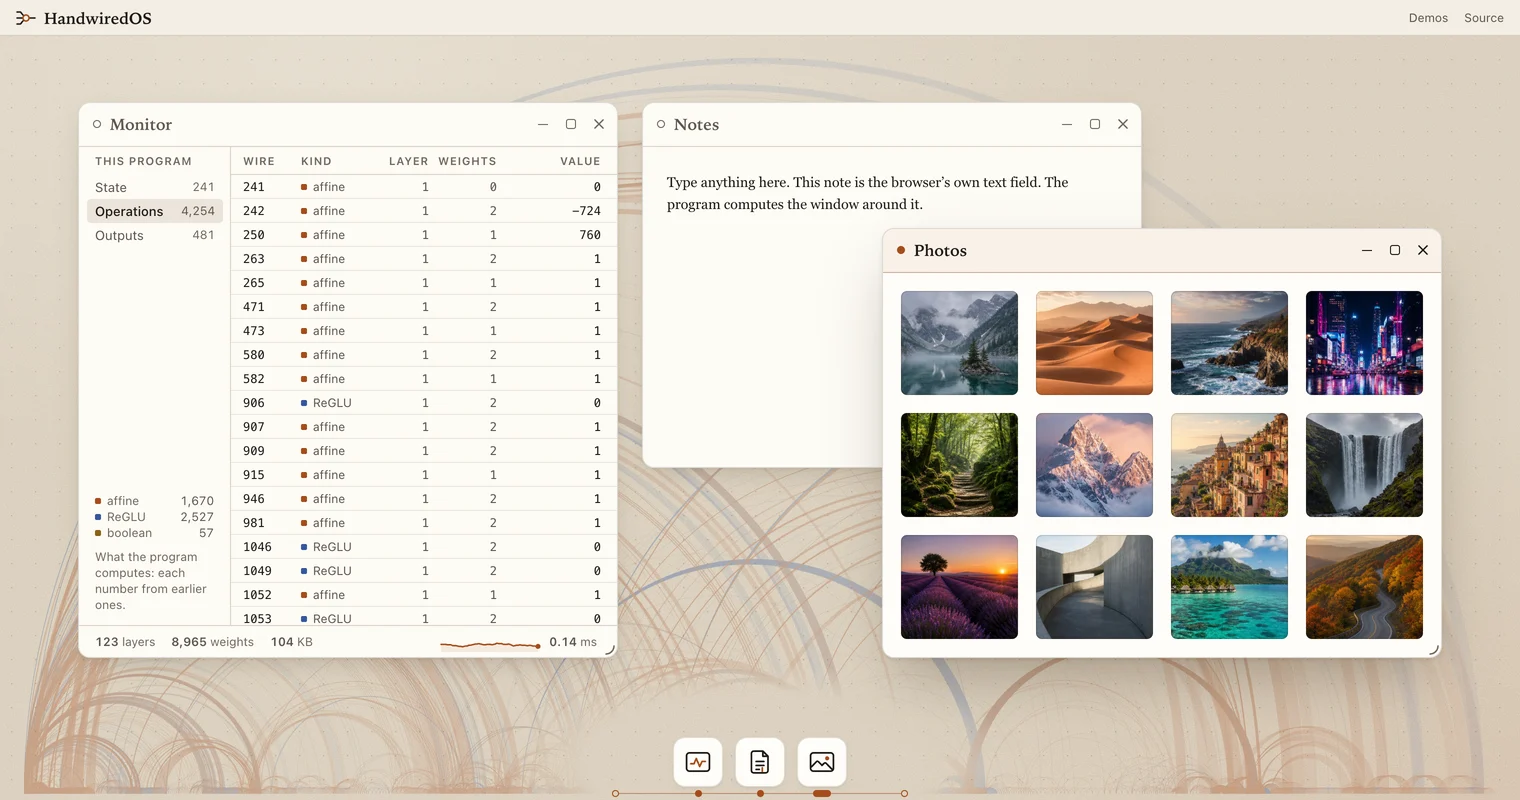
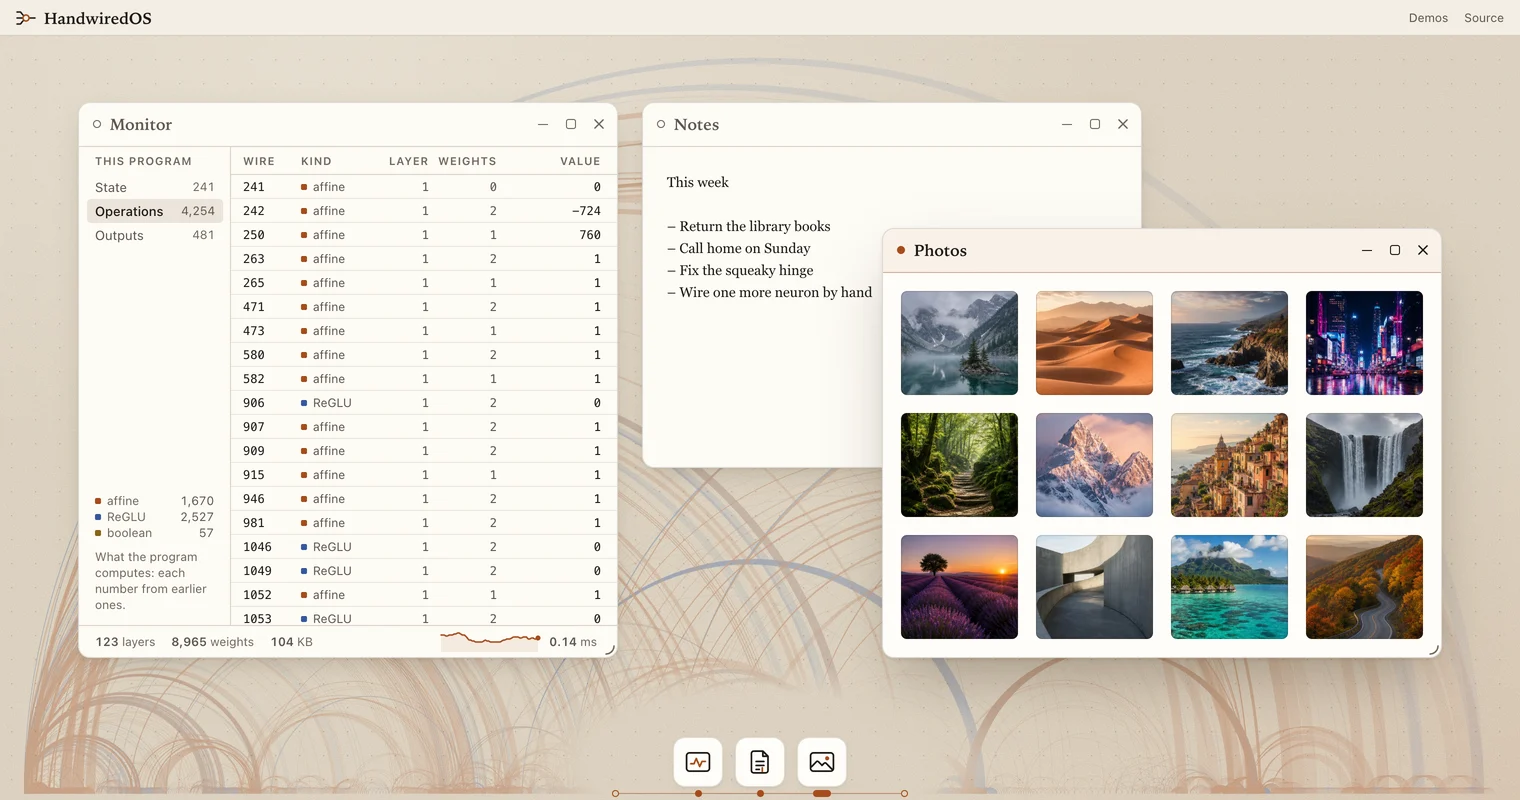
HandwiredOS: the note in Notes reads like a note, a short list for the week
Cheng asked to "replace that notes placeholder text with something more tasteful". The text until now explained the page ("Type anything here. This note is the browser's own text field. The program computes the window around it."), which is what the comment in the markup is for, and it told the visitor what to do.

The note is now a list a person might keep: "This week", then four lines, of which the last, "Wire one more neuron by hand", is the only one about the project. The note holds no number, so no later change to the program makes the note false. The text still fits the Notes window without scrolling at 1440 by 900 px and on a 390 px wide phone.

The lines start at the first column of the markup, because a text field keeps every space and line break between its tags as text; the comment above the field says so.

The index card's picture shows the note, so the picture is taken again from the page, with the same script and at the same size as before.

Changed region(s): [[0.4329, 0.2188, 0.7112, 0.375], [0.2783, 0.7812, 0.3711, 0.8125]]

diff --git a/assets/index.html b/assets/index.html
@@ -94,9 +94,15 @@
         </div>
       </div>
       <!-- The note is the browser's own text field. The browser edits, selects, wraps and scrolls its text, and
-           the program computes the window around it. -->
+           the program computes the window around it. The note's lines start at the line's first column, because a
+           text field keeps every space and line break between its tags as text. -->
       <div class="window-content notes-content">
-        <textarea class="notes-text" aria-label="Note">Type anything here. This note is the browser&rsquo;s own text field. The program computes the window around it.</textarea>
+        <textarea class="notes-text" aria-label="Note">This week
+
+&ndash; Return the library books
+&ndash; Call home on Sunday
+&ndash; Fix the squeaky hinge
+&ndash; Wire one more neuron by hand</textarea>
       </div>
       <div class="resize-grip"></div>
     </section>
